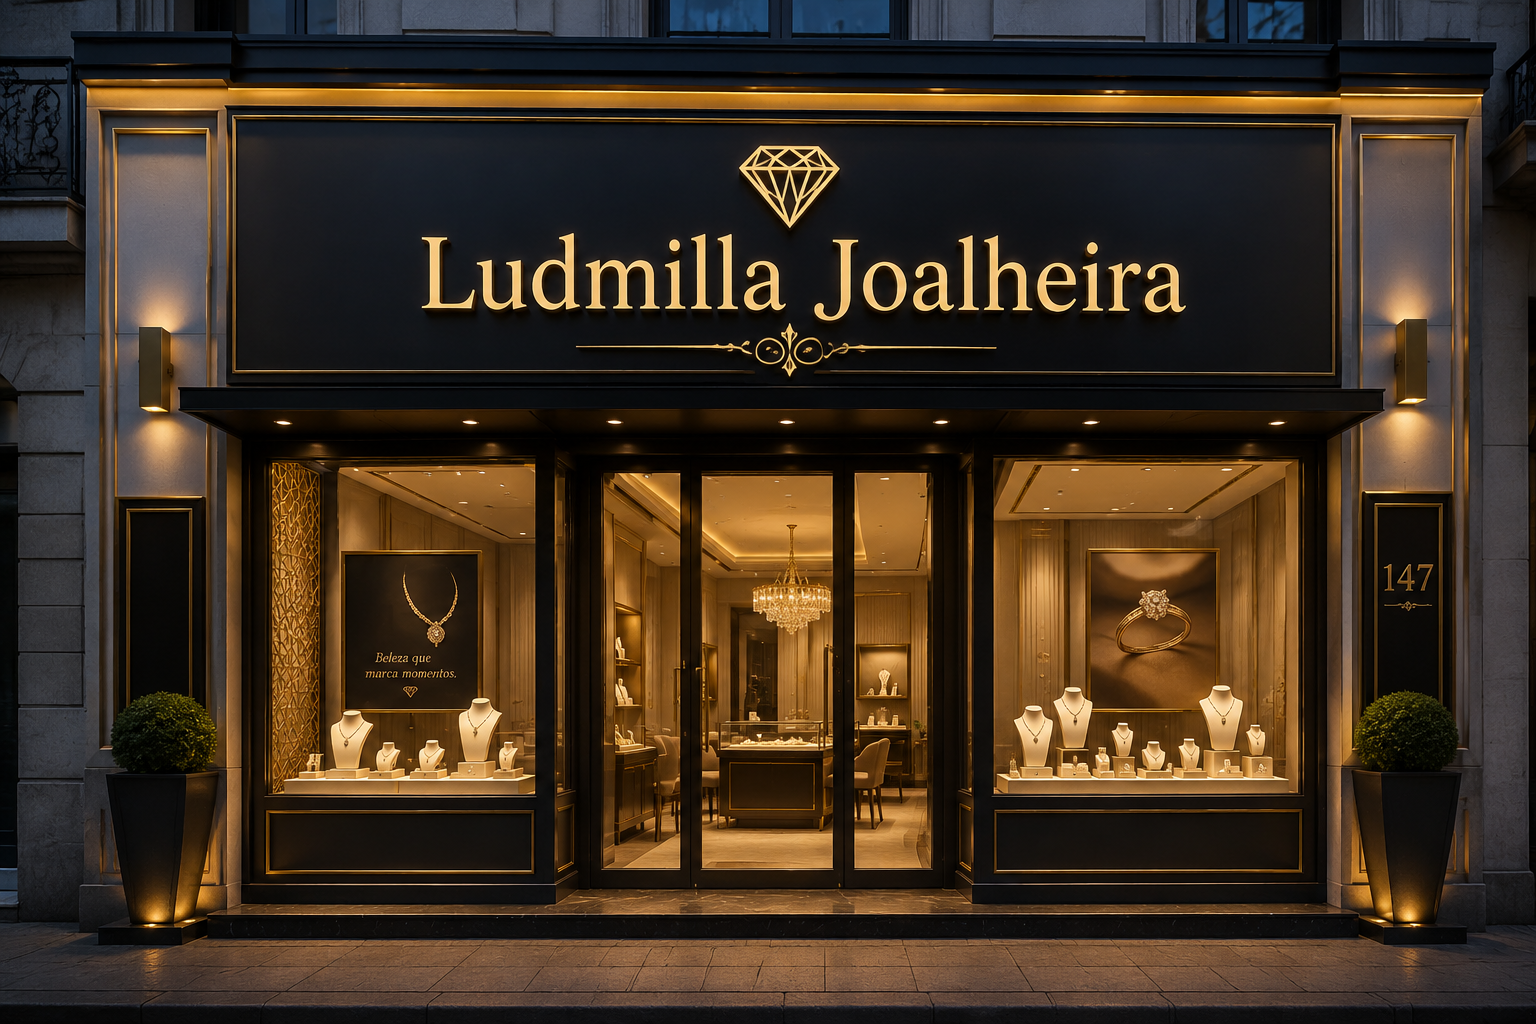
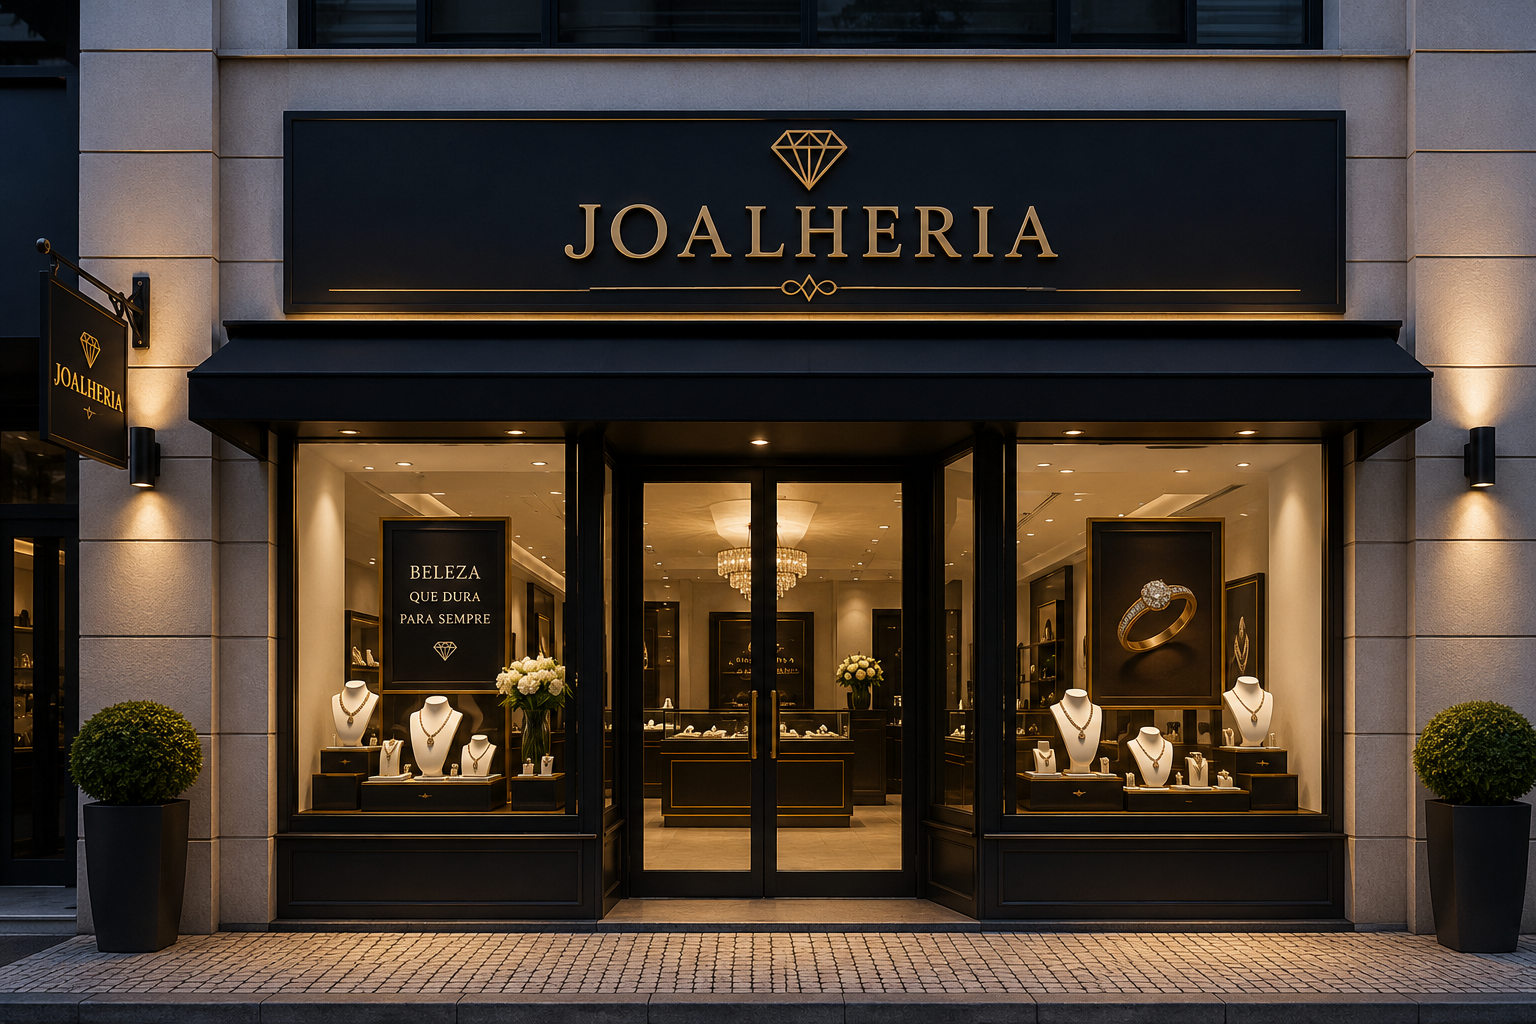
Finalizando o projeto.

diff --git a/src/main/java/br/ufpb/dcx/joalheria/SistemaJoalheria.java b/src/main/java/br/ufpb/dcx/joalheria/SistemaJoalheria.java
@@ -44,11 +44,6 @@ public class SistemaJoalheria implements SistemaJoalheriaInterface {
     }
 
     @Override
-    public Map<String, Joia> getJoias() {
-        return joias;
-    }
-
-    @Override
     public void salvarDados() throws IOException {
         gravador.salvarJoias(joias);
     }